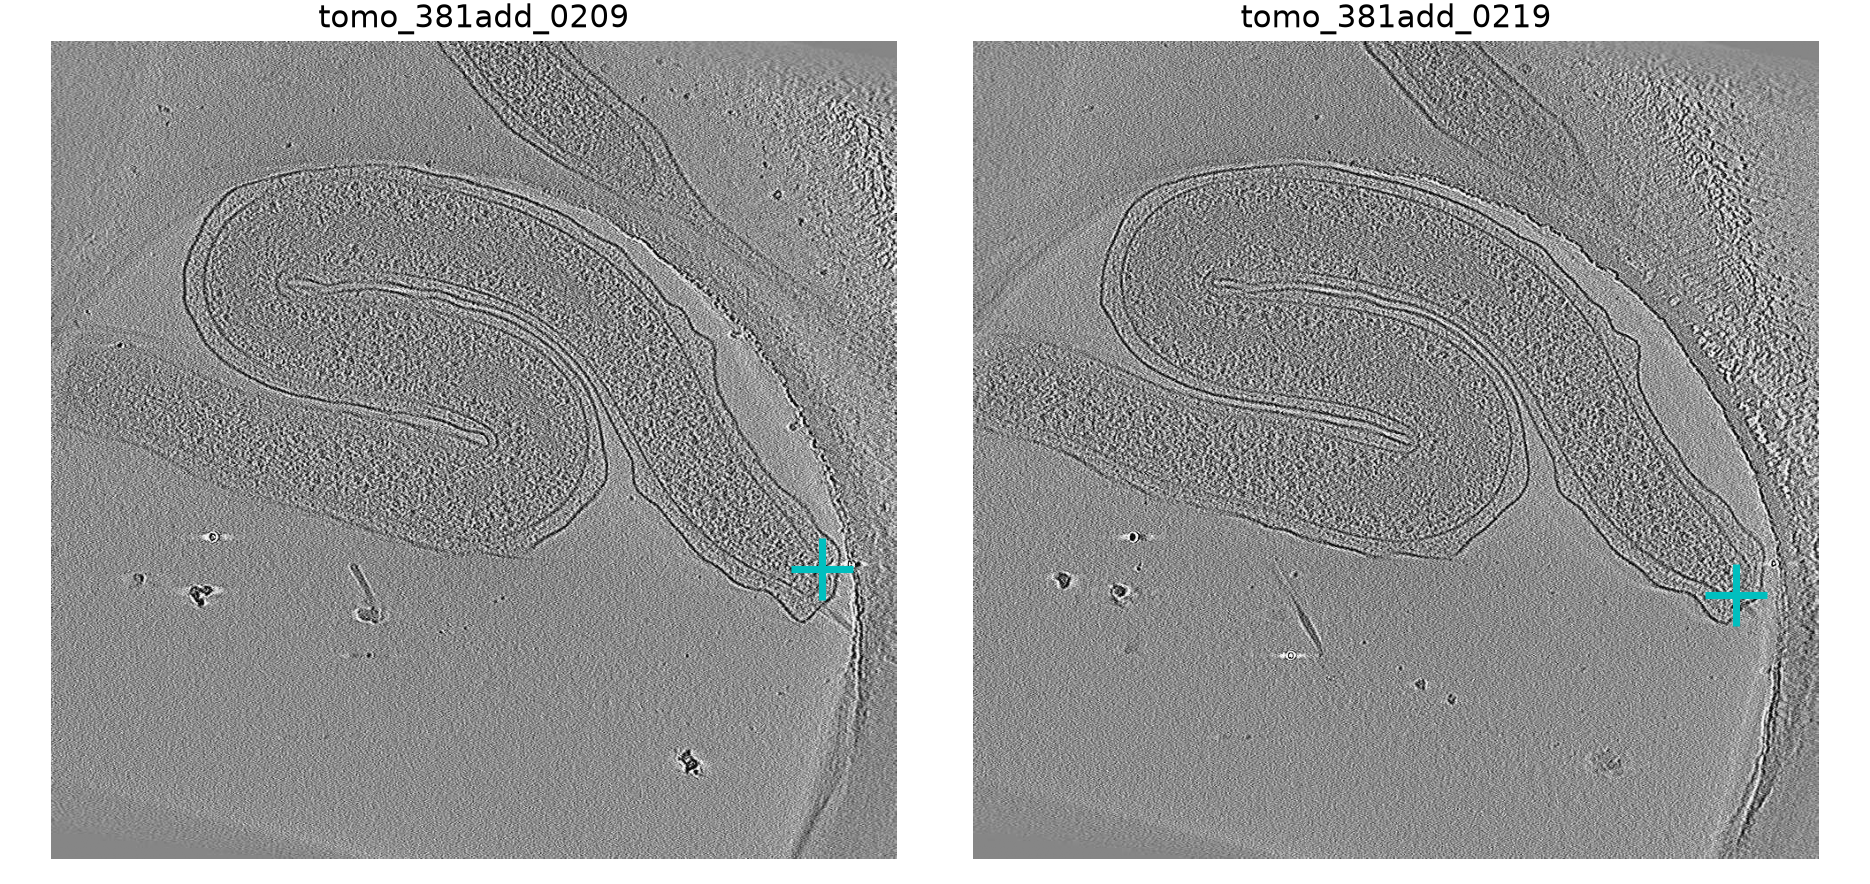
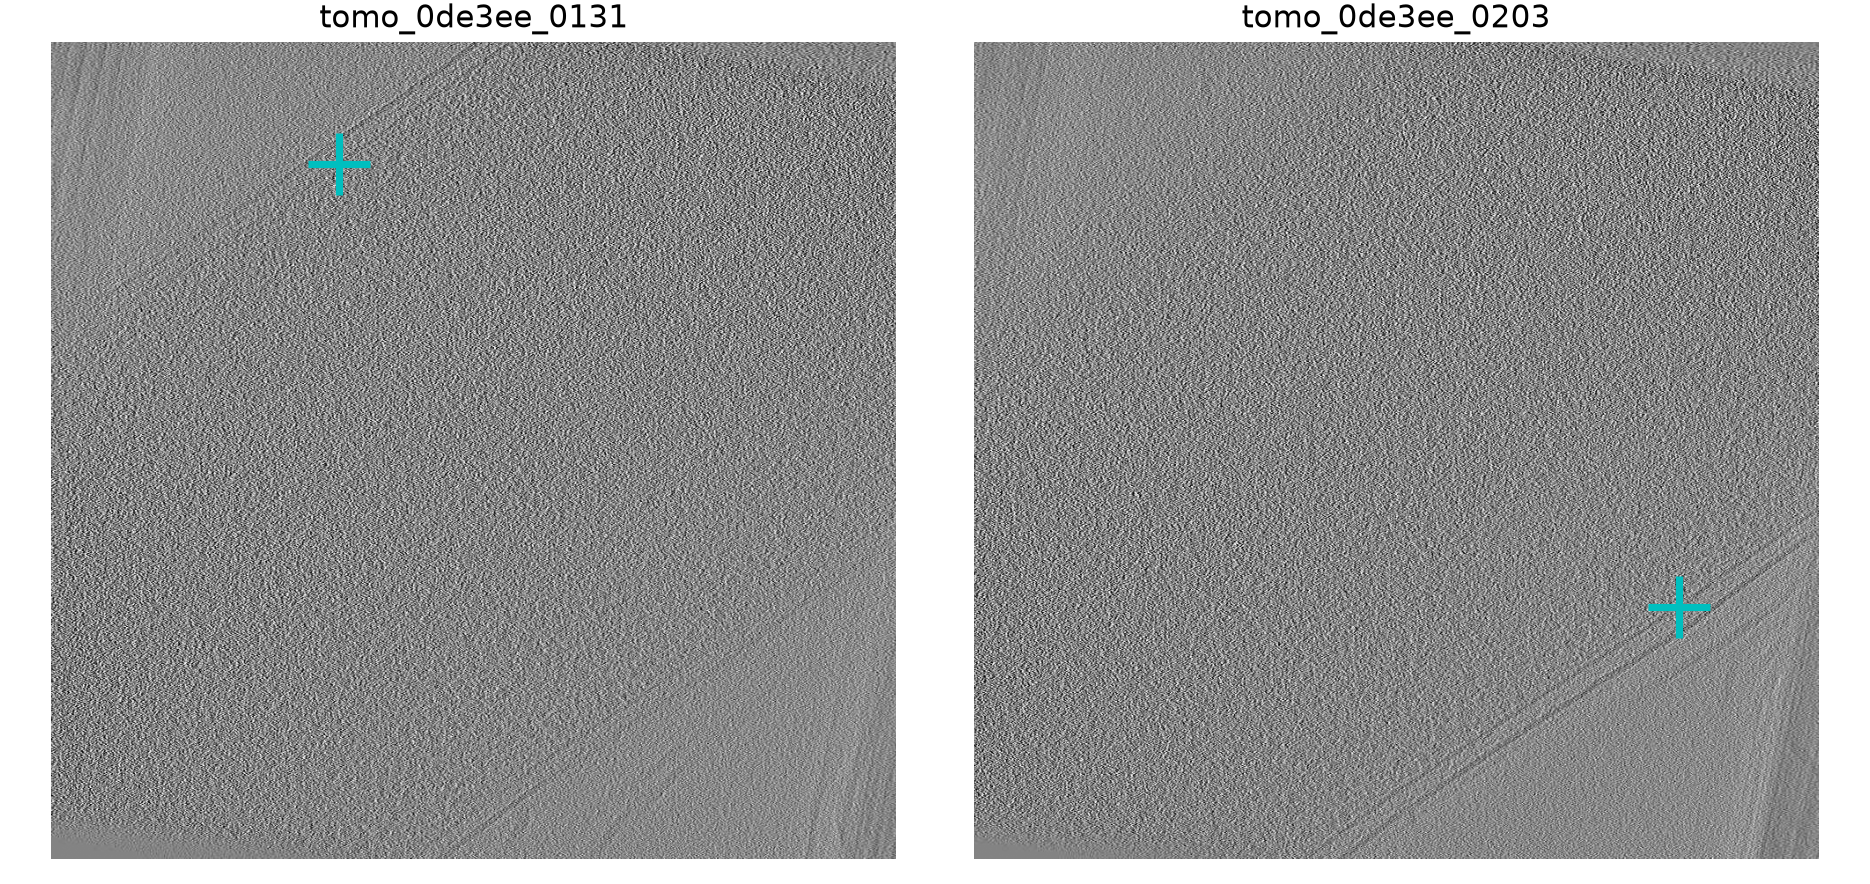
Figure: tomogram with two motor slices far apart

diff --git a/tp2/show_two_motors.py b/tp2/show_two_motors.py
@@ -7,11 +7,16 @@ s = pd.read_csv("processed/slices.csv")
 g = pd.read_csv("processed/gt.csv")
 t = s[(s.split == "train") & (s.has_motor == 1)]
 cnt = t.groupby("tomo_id").size()
-cands = list(cnt[cnt == 2].index)
-print("tomograms with exactly 2 motor slices (first 8):", cands[:8])
-tomo = sys.argv[1] if len(sys.argv) > 1 else cands[0]
+far = []
+for tomo in cnt[cnt == 2].index:
+    r = t[t.tomo_id == tomo].merge(g, on="slice_id")
+    d = float(np.hypot(r.y.iloc[0] - r.y.iloc[1], r.x.iloc[0] - r.x.iloc[1]))
+    if d > 300:
+        far.append((tomo, round(d)))
+print("2 motor slices, far apart (tomo, distance px):", far[:8])
+tomo = sys.argv[1] if len(sys.argv) > 1 else far[0][0]
 rows = t[t.tomo_id == tomo].merge(g, on="slice_id")
-print("using", tomo, "with", len(rows), "motors")
+print("using", tomo)
 
 fig, ax = plt.subplots(1, len(rows), figsize=(5.5 * len(rows), 5.2), squeeze=False)
 for a, r in zip(ax[0], rows.itertuples()):
